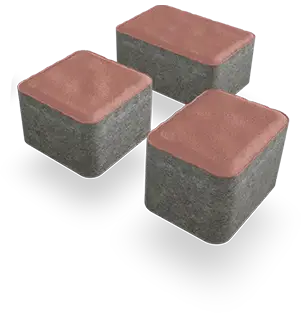
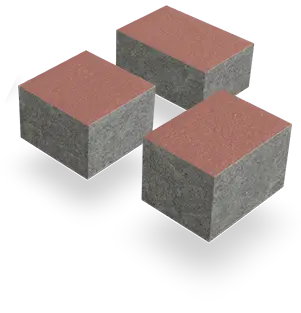
Refactored colors and models grid layout

diff --git a/src/style.css b/src/style.css
@@ -8,12 +8,15 @@
   --amb-radius: 8px;
   --def-border-radius: 4px;
   --amb-panel-width: 320px;
+  --amb-panel-width: 390px;
+  --amb-panel-columns: 4;
   --amb-panel-bg: hsl(0 0% 100% / 0.97);
   --amb-panel-shadow: 0 4px 24px hsl(0 0% 0% / 0.16);
   --cta-color: hsl(354, 73%, 46%);
   --amb-accent: var(--cta-color);
   --amb-accent-hover: #122d54;
   --amb-thumb-size: 56px;
+  --amb-thumb-size: 80px;
   --amb-transition: 0.6s cubic-bezier(0.2, 1, 0.3, 1);
   --amb-tab-height: 44px;
   --panel-toggler-dim: 60px;
@@ -282,6 +285,7 @@ body {
     display: flex;
     flex-direction: column;
     gap: 1.25rem;
+    overflow: scroll;
   }
 
   .panel-empty {
@@ -309,8 +313,11 @@ body {
 }
 
 .model-list {
-  display: flex;
-  flex-wrap: wrap;
+  display: grid;
+  grid-template-columns: repeat(var(--amb-panel-columns), 1fr);
+  /* display: flex;
+  flex-wrap: wrap; */
+
   gap: 0.5rem;
 }
 
@@ -336,8 +343,10 @@ body {
   }
 
   .model-thumb {
-    width: var(--amb-thumb-size);
-    height: var(--amb-thumb-size);
+    /* width: var(--amb-thumb-size);
+    height: var(--amb-thumb-size); */
+    width: 100%;
+    height: auto;
     border-radius: 4px;
     object-fit: cover;
     display: block;
@@ -348,9 +357,9 @@ body {
     color: #444;
     text-align: center;
     max-width: var(--amb-thumb-size);
-    overflow: hidden;
-    text-overflow: ellipsis;
-    white-space: nowrap;
+    /* overflow: hidden; */
+    /* text-overflow: ellipsis; */
+    /* white-space: nowrap; */
   }
 }
 
@@ -377,8 +386,10 @@ body {
 }
 
 .group-variants {
-  display: flex;
-  flex-wrap: wrap;
+  /* display: flex;
+  flex-wrap: wrap; */
+  display: grid;
+  grid-template-columns: repeat(var(--amb-panel-columns), 1fr);
   gap: 0.5rem;
 }
 
@@ -408,26 +419,24 @@ body {
 
   .variant-thumb {
     position: relative;
-    width: var(--amb-thumb-size);
-    height: var(--amb-thumb-size);
+    width: 100%;
+    border-radius: 4px;
+    overflow: hidden;
+  }
+
+  .variant-thumb-img {
+    width: 100%;
+    height: auto;
     border-radius: 4px;
     object-fit: cover;
     display: block;
   }
 
   &.has-tint {
-    .variant-thumb {
-      position: relative;
-    }
-
-    &::after {
+    .variant-thumb::after {
       content: '';
       position: absolute;
-      top: 0.25rem;
-      left: 0.25rem;
-      width: var(--amb-thumb-size);
-      height: var(--amb-thumb-size);
-      border-radius: 4px;
+      inset: 0;
       background: var(--tint-color);
       mix-blend-mode: multiply;
       pointer-events: none;

diff --git a/src/modules/ProductPanel/VariantButton.jsx b/src/modules/ProductPanel/VariantButton.jsx
@@ -16,12 +16,14 @@ const VariantButton = ({ variant, mode, baseTexture, isSelected, onClick }) => {
       title={variant.name}
       aria-pressed={isSelected}
     >
-      <img
-        className="variant-thumb"
-        src={thumbSrc}
-        alt={variant.name}
-        draggable={false}
-      />
+      <div className="variant-thumb">
+        <img
+          className="variant-thumb-img"
+          src={thumbSrc}
+          alt={variant.name}
+          draggable={false}
+        />
+      </div>
       <span className="variant-name">{variant.name}</span>
     </button>
   )

diff --git a/README.md b/README.md
@@ -178,6 +178,12 @@ Define todos los ambientes, zonas, modelos y variantes de la app.
 | `ambient.autohidePanel` | `boolean` | Si es `true`, al clicar fuera de cualquier zona clicable (lo que dispara el hint) el panel de producto se oculta automáticamente. Por defecto `false` (panel permanece abierto) |
 | `model.model_image` | `string` | Nombre del archivo de thumbnail del modelo (ej. `thumb_adoquin_toro_20x10.webp`), ubicado en `public/models/` |
 
+### Variaciones con bisel
+
+Los modelos cuyo `config.json` en PD-3D_VISUALIZER incluye `geometry.hasBisel: true` generan una entrada adicional en la lista de modelos con el sufijo `_bisel` en el `id`, colocada inmediatamente después del modelo base. Los grupos de la variación bisel incluyen sólo los grupos cuyo `availableFor` es `"both"` o está ausente; los grupos con `availableFor: "sin_bisel"` se excluyen (ej. el grupo Fusión® no está disponible para bisel).
+
+Modelos con variación bisel actualmente: `adoquin_toro_20x10`, `adoquin_alcanices_12x12`, `adoquin_castellano_18-12-9x12`, `adoquin_guarena_24x12`.
+
 ### Modos de variante
 
 **`mode: "tint"`** — todas las variantes comparten la misma textura base (`baseTexture`). El thumbnail muestra esa textura y un overlay `::after` con `mix-blend-mode: multiply` aplica el color `#value` sobre ella. Si `value` es vacío (`""`), se muestra la textura natural (color base).